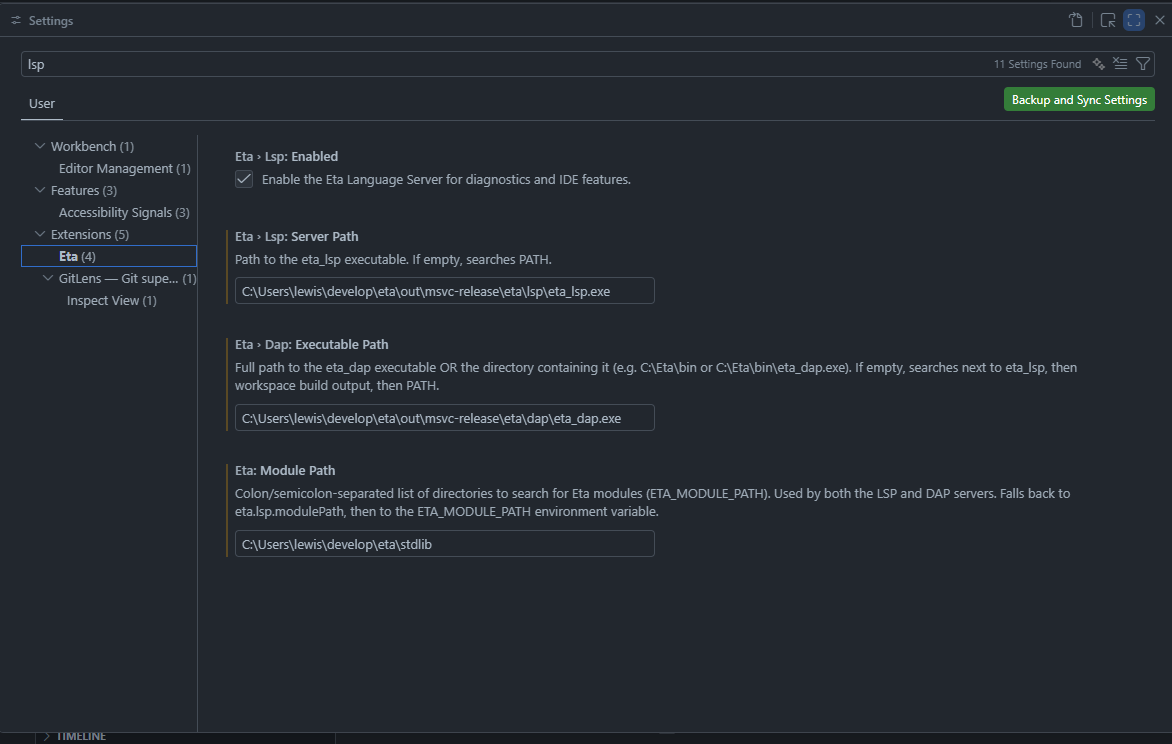
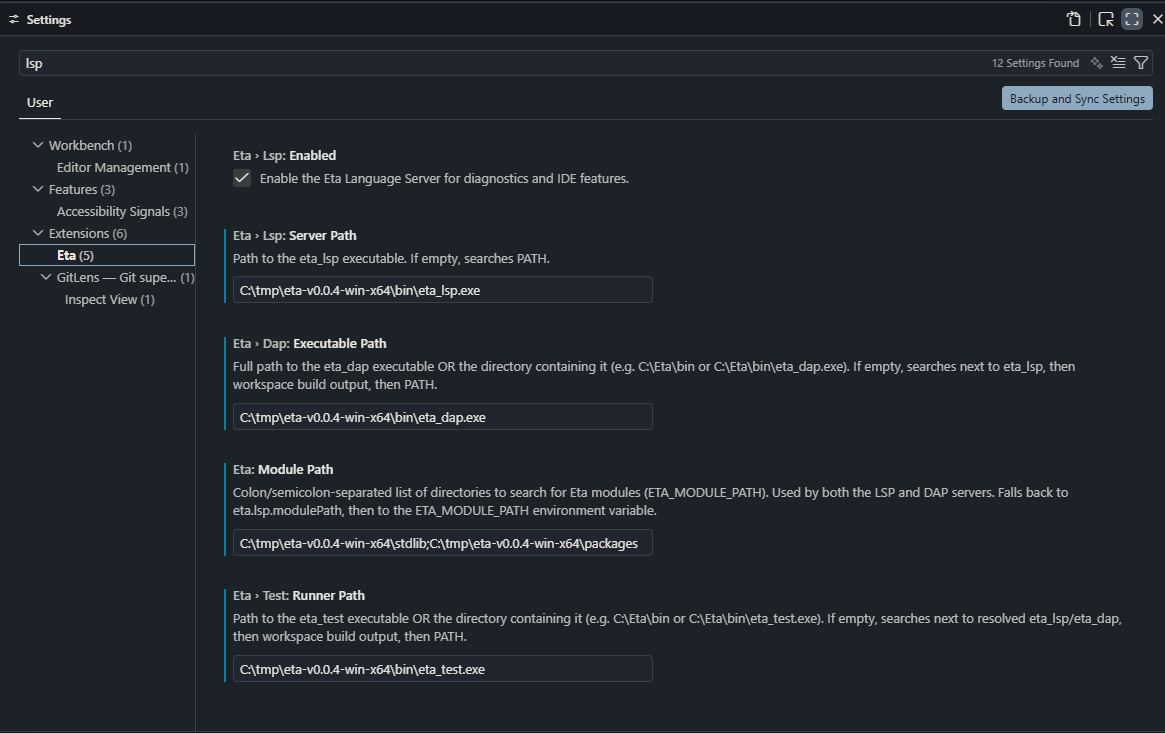
minor update to docs.

diff --git a/docs/quickstart.md b/docs/quickstart.md
@@ -11,31 +11,46 @@
 > [How to Build Your First App](app/first_app.md), then run the
 > [Cookbook End-to-End Packaging Example](../cookbook/packaging/end-to-end/README.md).
 
-> [!IMPORTANT]
+> [!TIP]
 > **How to get started with Jupyter:** see
 > [Eta Jupyter Kernel (`eta_jupyter`)](guide/reference/jupyter.md) and
 > [Cookbook Notebooks](../cookbook/notebooks/README.md).
 
-> [!IMPORTANT]
+> [!TIP]
 > **How to profile Eta code:** see
 > [Profiling](guide/profiling.md) for `eta prof`, notebook `%%prof`, REPL
 > `:prof`, and `std.prof`.
 
-## Installing from a Release
+## Release Bundle Quick Start
 
 Download the latest archive for your platform from
 [GitHub Releases](https://github.com/lewismj/eta/releases):
 
-| Platform     | Archive                            |
-|--------------|------------------------------------|
-| Windows x64  | `eta-v0.0.2-win-x64.zip`          |
-| Linux x86_64 | `eta-v0.0.2-linux-x86_64.tar.gz`  |
+| Platform     | Archive                                  |
+|--------------|------------------------------------------|
+| Windows x64  | `eta-v<version>-win-x64.zip`             |
+| Linux x86_64 | `eta-v<version>-linux-x86_64.tar.gz`     |
+
+### Bundle Layout (at a glance)
+
+```text
+eta-v<version>-<platform>/
+  bin/        # etac, etai, eta_repl, eta_lsp, eta_dap, ...
+  stdlib/     # std/*.eta + std/*.etac
+  packages/   # package manifests, modules, and sidecar artifacts
+  cookbook/   # chapter folders (basics/, logic/, numerics/, ...)
+  editors/    # eta-lang-<version>.vsix
+  install.sh / install.cmd
+```
+
+The cookbook is chapter-based. The layout above is intentionally not an
+exhaustive file listing.
 
 ### Linux / macOS
 
 ```bash
-tar xzf eta-v0.0.2-linux-x86_64.tar.gz
-cd eta-v0.0.2-linux-x86_64
+tar xzf eta-v<version>-linux-x86_64.tar.gz
+cd eta-v<version>-linux-x86_64
 ./install.sh                  # adds bin/ to PATH, sets ETA_MODULE_PATH
                               # installs VS Code extension if 'code' is on PATH
 ```
@@ -43,14 +58,14 @@ cd eta-v0.0.2-linux-x86_64
 To install into a custom prefix instead of using the bundle in-place:
 
 ```bash
-./install.sh /usr/local       # copies bin/, stdlib/ ? /usr/local/
+./install.sh /usr/local       # copies bin/, stdlib/, packages/, editors/
 ```
 
 ### Windows
 
 ```powershell
-Expand-Archive eta-v0.0.2-win-x64.zip -DestinationPath .
-cd eta-v0.0.2-win-x64
+Expand-Archive eta-v<version>-win-x64.zip -DestinationPath .
+cd eta-v<version>-win-x64
 .\install.cmd                 # adds bin\ to user PATH, sets ETA_MODULE_PATH
                               # installs VS Code extension if 'code' is on PATH
 ```
@@ -60,6 +75,19 @@ To install into a custom prefix:
 ```powershell
 .\install.cmd "C:\Program Files\Eta"
 ```
+
+> [!TIP]
+> To ensure both stdlib modules and bundled packages resolve in terminals,
+> VS Code, and debugging sessions, set `ETA_MODULE_PATH` to include both roots.
+> On Windows, for example:
+> `C:\tmp\eta-v0.0.4-win-x64\stdlib;C:\tmp\eta-v0.0.4-win-x64\packages`
+
+> [!TIP]
+> VS Code setup from a release bundle:
+> 1. Keep `code` on your `PATH` before running the installer, or install manually with:
+>    `code --install-extension .\editors\eta-lang-<version>.vsix --force`
+> 2. Set `eta.lsp.serverPath` / `eta.dap.executablePath` to the bundle's `bin/`.
+> 3. Set `eta.modulePath` to include both `stdlib` and `packages`.
 
 > [!NOTE]
 > Always use `install.cmd` rather than calling `install.ps1`
@@ -219,27 +247,8 @@ Hello, REPL!
 
 ### Standard Library Modules
 
-| Module               | Description                              |
-|----------------------|------------------------------------------|
-| `std.core`           | `atom?`, `compose`, `flip`, `iota`, —    |
-| `std.math`           | `pi`, `e`, `even?`, `gcd`, `expt`, —     |
-| `std.io`             | `println`, `eprintln`, `read-line`, port helpers |
-| `std.collections`    | `filter`, `foldl`, `sort`, `range`, —     |
-| `std.logic`          | `==`, `copy-term`, `naf`, `findall`, —    |
-| `std.clp`            | `clp:=`, `clp:all-different`, `clp:solve`, — |
-| `std.clpb`           | Boolean CLP → `clp:and`, `clp:sat?`, — *(opt-in)* |
-| `std.clpr`           | Real-interval CLP → `clp:r=`, `clp:r-minimize`, — *(opt-in)* |
-| `std.causal`         | `dag:*`, `do:identify`, `do:estimate-effect` |
-| `std.fact_table`     | `make-fact-table`, `fact-table-query`, —  |
-| `std.db`             | `defrel`, `assert`, `retract`, `call-rel`, `tabled` |
-| `std.stats`          | `stats:mean`, `stats:ols`, distributions, — |
-| `std.time`           | `time:now-ms`, `time:elapsed-ms`, `time:format-iso8601-utc`, ... |
-| `std.net`            | `with-socket`, `request-reply`, `worker-pool`, — |
-| `std.freeze`         | `freeze`, `dif` *(opt-in)*                |
-| `std.supervisor`     | `one-for-one`, `one-for-all` *(opt-in)*   |
-| `std.torch`          | `tensor`, `forward`, `train-step!`, — *(opt-in)* |
-| `std.test`           | `make-test`, `assert-equal`, `run`, — *(opt-in)* |
-| `std.prof`           | `prof/start`, `prof/stop`, `prof/report`, `prof/with` |
+See [Standard Library](stdlib.md) for a complete list of modules.
+
 
 ### Writing a Module
 
@@ -365,7 +374,7 @@ add the following to your `settings.json`:
 {
   "eta.lsp.serverPath":    "/path/to/eta-release/bin/eta_lsp",
   "eta.dap.executablePath": "/path/to/eta-release/bin/eta_dap",
-  "eta.modulePath":        "/path/to/eta-release/stdlib"
+  "eta.modulePath":        "/path/to/eta-release/stdlib:/path/to/eta-release/packages"
 }
 ```
 
@@ -374,7 +383,7 @@ add the following to your `settings.json`:
 | `eta.lsp.serverPath` | Path to the `eta_lsp` executable. If empty, the extension searches bundled paths, workspace build output, then `PATH`. |
 | `eta.lsp.enabled` | Enable/disable the language server (default: `true`). |
 | `eta.dap.executablePath` | Path to the `eta_dap` executable (or the directory containing it). If empty, searches next to `eta_lsp`, then bundled paths, then `PATH`. |
-| `eta.modulePath` | Module search path (`ETA_MODULE_PATH`). Used by both LSP and DAP. Falls back to the `ETA_MODULE_PATH` environment variable. |
+| `eta.modulePath` | Module search path (`ETA_MODULE_PATH`). Use `stdlib` + `packages` (`;` on Windows, `:` on Linux/macOS). Used by both LSP and DAP. Falls back to the `ETA_MODULE_PATH` environment variable. |
 | `eta.debug.autoShowHeap` | Automatically open the Heap Inspector when a debug session starts (default: `true`). |
 
 The extension looks for the LSP binary in the following order:
@@ -386,7 +395,7 @@ The extension looks for the LSP binary in the following order:
 
 ### Running & Debugging
 
-1. Open the `cookbook/` folder from the release bundle (**File ? Open Folder**).
+1. Open the `cookbook/` folder from the release bundle (**File -> Open Folder**). It is organized into chapter directories (for example `basics/`, `logic/`, `numerics/`, `concurrency/`).
 2. Open any `.eta` file — syntax highlighting and diagnostics activate automatically.
 3. **Run from terminal:** `etai hello.eta` in the integrated terminal.
 4. **Debug with F5:** press **F5** (or **Run ? Start Debugging**) — the extension launches `eta_dap` automatically.
@@ -437,32 +446,3 @@ session. It provides an expandable tree of GC root categories:
 - Each root object is expandable — clicking it sends an `eta/inspectObject` request and shows child fields (car/cdr, vector elements, upvalues, etc.).
 - Click any object node to open it in the Heap Inspector.
 - Use the refresh button in the panel title bar, or it auto-refreshes on each VM stop.
-
----
-
-## Bundle Layout
-
-```
-eta-v0.0.2-<platform>/
-  bin/
-    etac(.exe)              # Ahead-of-time bytecode compiler
-    etai(.exe)              # File interpreter (also runs .etac files)
-    eta_repl(.exe)          # Interactive REPL
-    eta_lsp(.exe)           # Language Server (JSON-RPC over stdio)
-    eta_dap(.exe)           # Debug Adapter (DAP over stdio, used by VS Code)
-  stdlib/
-    std/
-      core.eta  math.eta  io.eta  collections.eta  test.eta
-      logic.eta  clp.eta  clpb.eta  clpr.eta  causal.eta
-      db.eta  fact_table.eta  freeze.eta  net.eta  stats.eta  time.eta
-      supervisor.eta  torch.eta
-  cookbook/
-    hello.eta  basics.eta  functions.eta  higher-order.eta  ...
-  editors/
-    eta-lang-<version>.vsix # VS Code extension
-  install.sh / install.cmd  # Post-extract installer
-```
-
-The binaries automatically locate `stdlib/` relative to themselves
-(`<exe>/../stdlib/`), so no environment variables are needed when
-using the installed layout.
